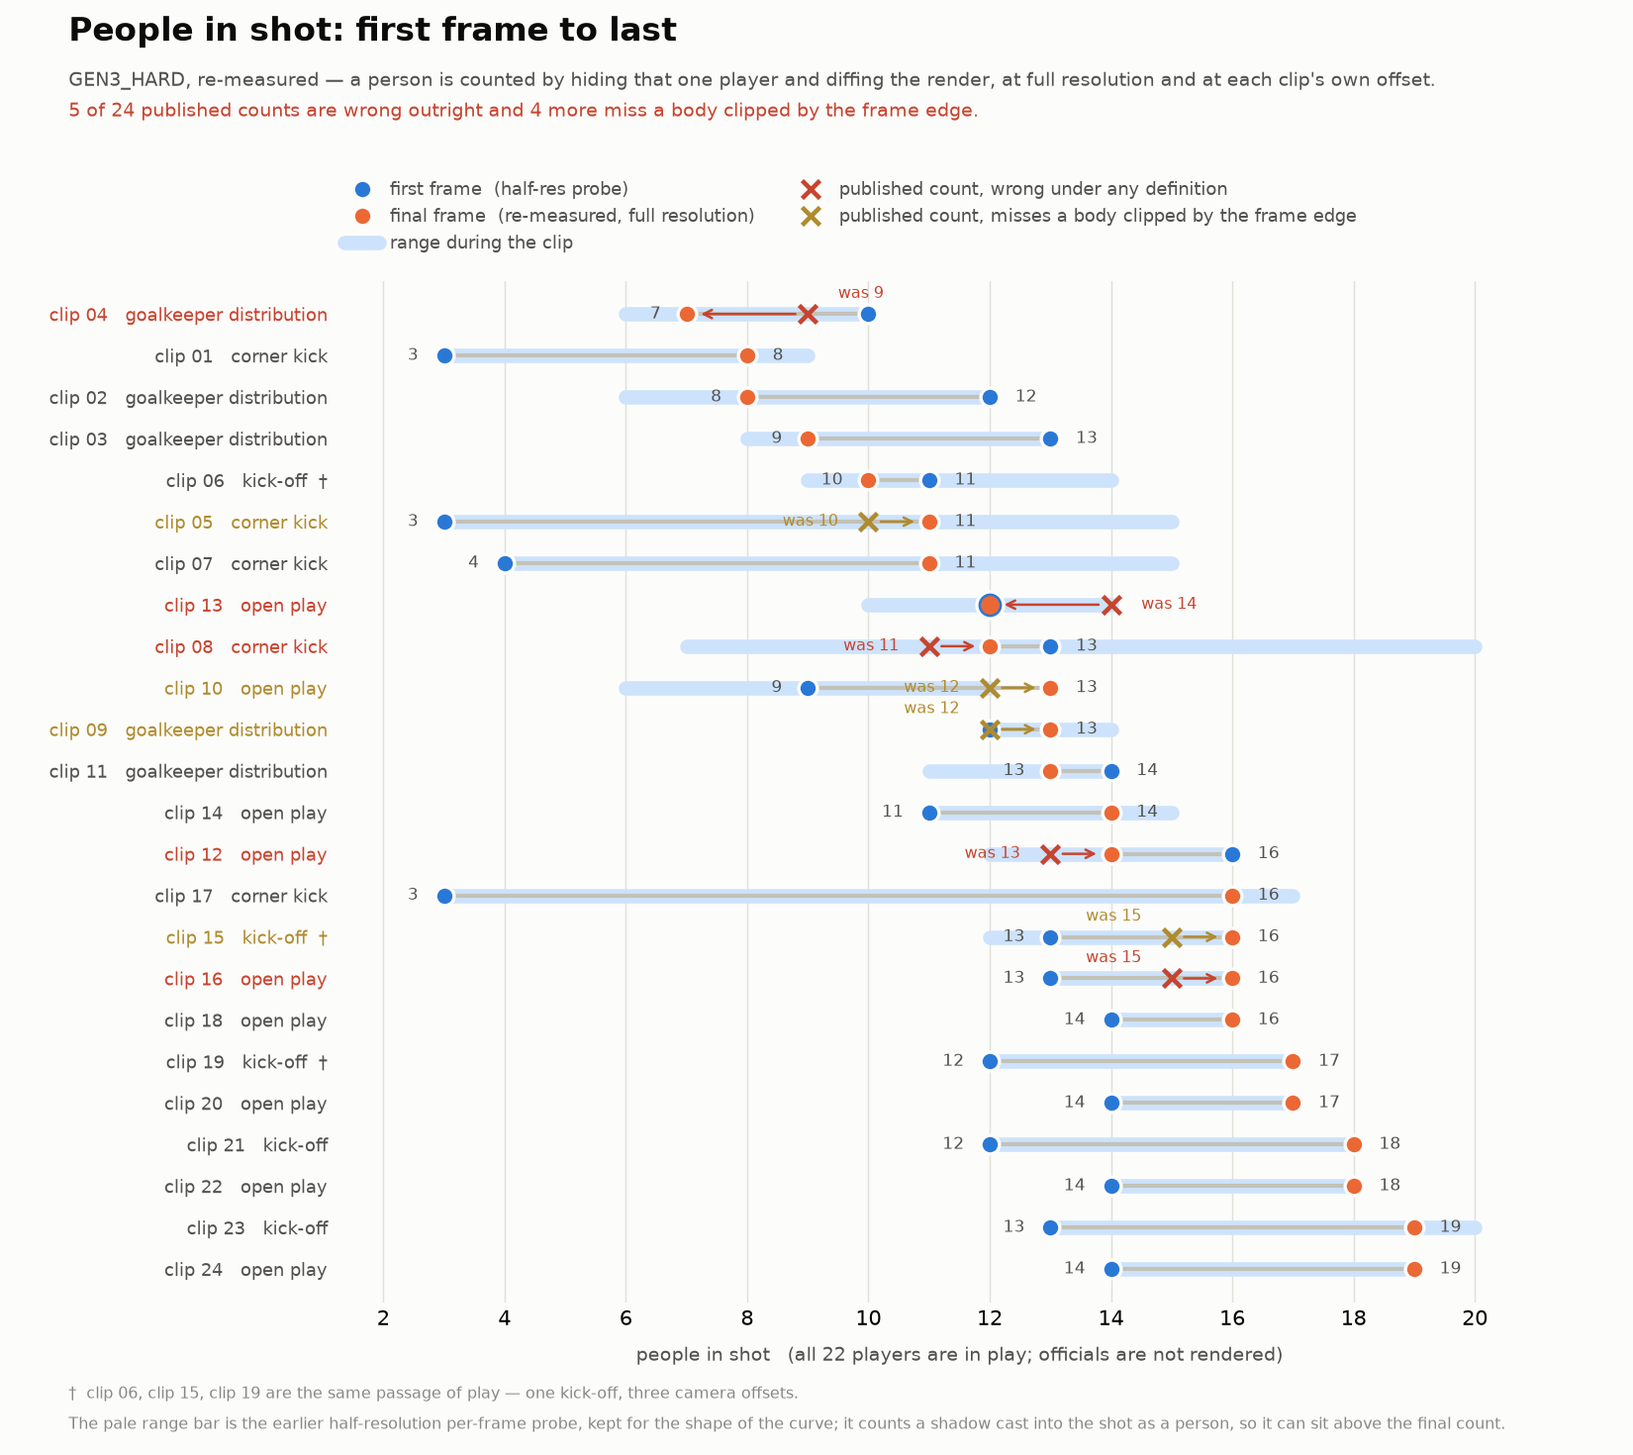
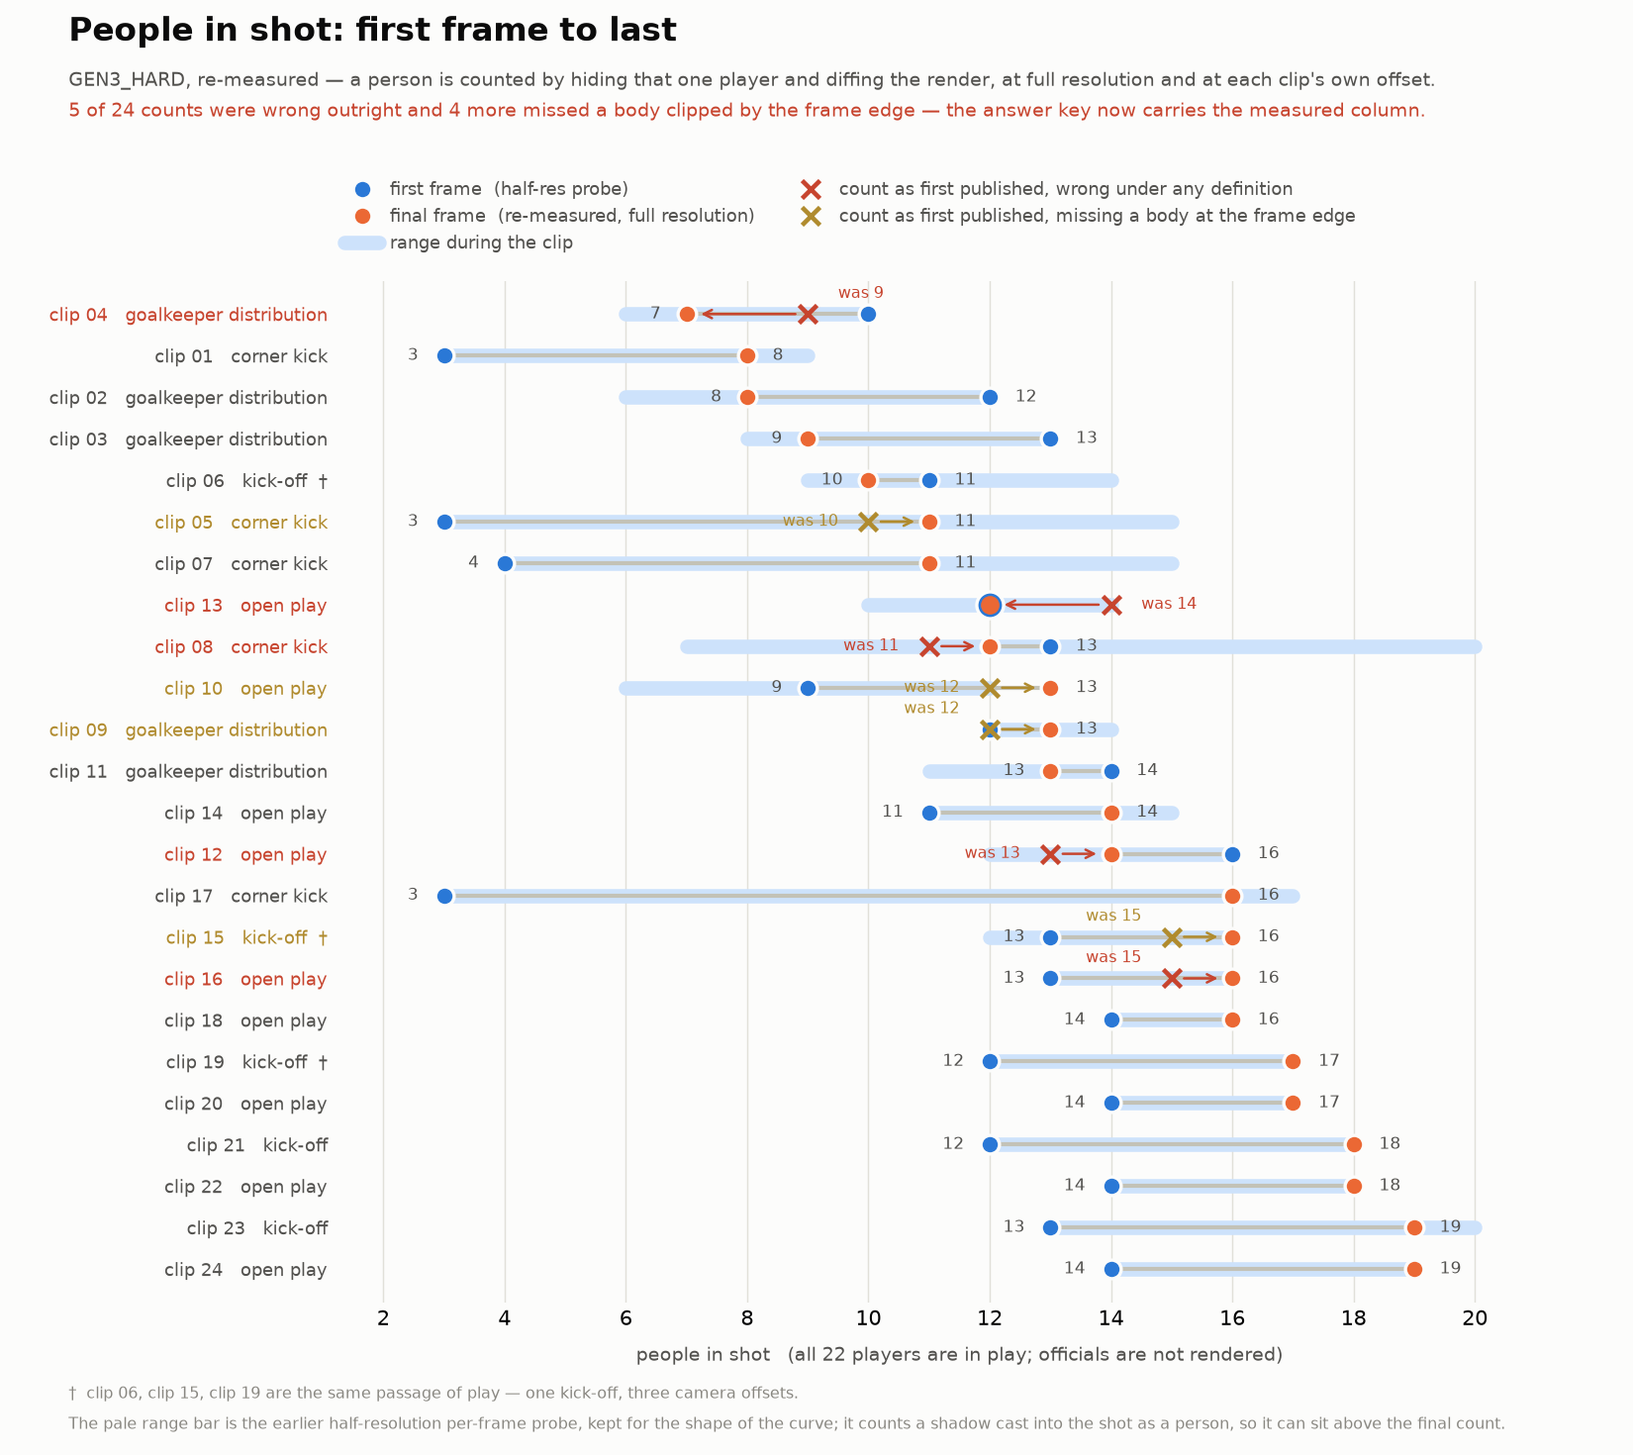
GEN3_HARD: correct the answer key, and stop the verifier passing on targets
Applies the re-measurement. ground_truth.csv and clip_classification.csv now
carry the measured final-frame count — a person is in shot if any part of their
body has pixels in the frame — and gain a same_play_as column naming the clips
that share a passage of play. Nine counts changed; the key as first published is
kept as ground_truth.superseded_2026-09-21.csv, which is also what the review
compares against so the record of the correction survives the fix.

gen3_report.py now takes the end count from the full-resolution final-frame
probe rather than the half-resolution trace, and refuses to fall back to it.

Two verifier checks were reading the selector's intentions instead of the
shipped batch, and passed while the batch was wrong:

  * the player count came from picks.json["count"], the target the selector
    aimed at, so it reported 8..19 twice even where the frame disagreed;
  * "one clip per match" compared match names, which cannot see that mid_bal,
    mid_even and mid_even2 are one scenario spec under three names.

Both now read the shipped key and the logged ball track. They fail, correctly:
level 15 is empty, 16 holds four clips, clip_04 sits at 7, three levels lost
their blue/red split, and clips 06, 15 and 19 are one kick-off at three camera
offsets. RESUME.md records what that costs and what still has to be re-picked.

Changed region(s): [[0.0927, 0.0612, 0.8655, 0.0918], [0.5255, 0.1224, 0.8345, 0.1531]]

diff --git a/GEN3_HARD/gen3_report.py b/GEN3_HARD/gen3_report.py
@@ -10,8 +10,13 @@ shipped ground truth, and runs no engine. Re-running it cannot change the batch.
 
 WHERE EACH NUMBER COMES FROM, because they are not equally hard-won
   ball cell / pixel   measured in `compose` from the shipped render pair
-  players in frame    measured by the 23-pass solo probe (`trace`) at the shipping
-                      camera offset — the only exact method; see gen3.py
+  players in frame    measured by the 23-pass solo probe at the shipping camera offset —
+                      the only exact method; see gen3.py. The START/MIN/MAX come from
+                      `trace`, which runs at half resolution; the END count, which is the
+                      batch's headline number, comes from `verify_final_frame.py` at full
+                      resolution and counts bodies only. So a row CAN show an end count
+                      above its own max: the coarse pass misses a body clipped by the
+                      frame edge. Do not "fix" that by reverting the end count.
   everything else     the sweep log, which is camera-independent: ball xyz, per-player
                       xy, possession, game mode, score, at 25 fps
 
@@ -110,6 +115,21 @@ def near_ball(row, i):
     return int((np.linalg.norm(pl - row["ball"][i][:2], axis=1) < NEAR).sum())
 
 
+FINAL = G.CACHE / "finalframe"
+FINAL_MIN_PIX = 20          # matches review_gen3_hard.py; a body, not a shadow
+
+
+def final_frame_count(r):
+    """People in shot on the last frame, from the full-resolution solo probe."""
+    f = FINAL / f"{r['clip']}.npz"
+    if not f.exists():
+        raise SystemExit(f"{f} is missing — run `python3 verify_final_frame.py` first; "
+                         "the end count must not fall back to the half-res trace")
+    rec = json.loads(str(np.load(f, allow_pickle=True)["rec"]))
+    return sum(1 for s in rec["slots"]
+               if s["pix"] >= FINAL_MIN_PIX and s.get("body_pix", 0) >= FINAL_MIN_PIX)
+
+
 def crowding(n):
     return "isolated" if n < 2 else ("contested" if n < 5 else "crowded")
 
@@ -166,7 +186,32 @@ def describe(r):
     return "; ".join(bits) + "."
 
 
+def mark_duplicates(rows):
+    """Tag clips that are the same passage of play as another clip.
+
+    Not by match name: `mid_bal`, `mid_even` and `mid_even2` are three names for one
+    scenario spec, so one seed replays bit-identically under each and three clips can
+    share a kick-off while looking like three different matches. Compare the logged ball
+    track, which is the thing that would have to differ for the play to be different.
+    """
+    for r in rows:
+        r["dup"] = []
+    for i, a in enumerate(rows):
+        for b in rows[i + 1:]:
+            if len(a["ball"]) != len(b["ball"]):
+                continue
+            za = np.load(SWEEP / f"{a['match']}.npz")["ball"]
+            zb = np.load(SWEEP / f"{b['match']}.npz")["ball"]
+            if len(za) != len(zb) or np.abs(za - zb).max() > 1e-6:
+                continue
+            if min(a["end"], b["end"]) > max(a["start"], b["start"]):
+                a["dup"].append(b["clip"])
+                b["dup"].append(a["clip"])
+    return rows
+
+
 def classify(rows):
+    mark_duplicates(rows)
     for r in rows:
         b, own = r["ball"], r["owned"]
         step = np.diff(b[:, :2], axis=0) * (MX, MY)
@@ -193,9 +238,14 @@ def classify(rows):
         r["restart_visible"] = bool(r["start"] <= r["anchor"] < r["end"])
         t = r["trace"]
         r["count_start"] = int(t[0]) if t is not None else None
-        r["count_end"] = int(t[-1]) if t is not None else int(r["count"])
         r["count_min"] = int(t.min()) if t is not None else None
         r["count_max"] = int(t.max()) if t is not None else None
+        # The END count is the batch's headline number, so it does NOT come from the
+        # half-resolution trace: at down=2 a 40-pixel floor is ~160 pixels at full size,
+        # which drops a player half out of frame and admits the shadow of one entirely
+        # out of it. verify_final_frame.py re-measures that one frame at full resolution
+        # and separates body pixels from shadow; see _review/CLIP_REVIEW.md.
+        r["count_end"] = final_frame_count(r)
         r["description"] = describe(r)
     return rows
 
@@ -238,6 +288,9 @@ FIELDS = [
     ("end_frame", lambda r: r["end"]),
     ("camera_offset_x", lambda r: r["offset_x"]),
     ("camera_offset_y", lambda r: r["offset_y"]),
+    # mid_bal, mid_even and mid_even2 are one scenario spec under three names, so a
+    # (shape, seed) pair is not a match identity and three clips share one kick-off.
+    ("same_play_as", lambda r: " ".join(r.get("dup", []))),
 ]
 
 

diff --git a/GEN3_HARD/verify_gen3.py b/GEN3_HARD/verify_gen3.py
@@ -4,6 +4,13 @@ Every assertion here is made against the RENDERED CLIPS or the frames they were 
 not against the plan that produced them. A pipeline that reports its own intentions back
 is worth nothing; the point is to catch the case where intent and output diverged.
 
+Two checks used to break that rule and passed while the batch was wrong. The player count
+was read from `picks.json["count"]` — the TARGET the selector was aiming at — so it
+reported 8..19 twice even after the re-measurement found nine of those counts wrong. And
+"one clip per match" compared match NAMES, which cannot see that `mid_bal`, `mid_even` and
+`mid_even2` are one scenario spec under three names, so three clips of one kick-off looked
+like three matches. Both now read the shipped ground truth and the logged play.
+
     python3 verify_gen3.py            # all checks + contact sheets
     python3 verify_gen3.py recheck N  # re-probe N clips end to end (23 replays each)
 
@@ -14,6 +21,7 @@ WHAT `recheck` IS FOR
   and the probe ever disagree (a stale scenario file, an env var not set on one path, a
   cache keyed wrongly), this is what finds it.
 """
+import csv
 import json
 import sys
 from pathlib import Path
@@ -66,9 +74,15 @@ def check(picks):
     print("\n== spec ==")
     want("24 situations", len(picks) == 24, f"got {len(picks)}")
 
-    counts = sorted(p["count"] for p in picks)
+    # From the SHIPPED KEY, which is what a consumer of the batch reads, never from the
+    # selector's target.
+    key = {r["clip"]: r for r in csv.DictReader(open(HERE / "clips/ground_truth.csv"))}
+    counts = sorted(int(key[p["clip"]]["players_in_frame_last"]) for p in picks)
     expect = sorted(c for c in G.END_COUNTS for _ in range(G.PER_COUNT))
-    want("counts are 8..19, two each", counts == expect, f"got {counts}")
+    per = {c: counts.count(c) for c in sorted(set(counts))}
+    short = [c for c in G.END_COUNTS if counts.count(c) != G.PER_COUNT]
+    want("counts are 8..19, two each", counts == expect,
+         f"got {per}" + (f"; off-spec levels {short}" if short else ""))
 
     kinds = {}
     for p in picks:
@@ -81,18 +95,34 @@ def check(picks):
     # red, which is exactly the imbalance this constraint exists to remove.
     by_count = {}
     for p in picks:
-        by_count.setdefault(p["count"], []).append(p.get("startown", -1))
-    uneven = {c: v for c, v in by_count.items() if sorted(v) != [0, 1]}
-    want("each count has one blue-start and one red-start clip", not uneven,
-         f"uneven levels {uneven}" if uneven else "")
+        lvl = int(key[p["clip"]]["players_in_frame_last"])
+        by_count.setdefault(lvl, []).append(p.get("startown", -1))
+    # Only a level holding exactly two clips can be split one and one; a level with one
+    # or three cannot, and flagging it as uneven would be an artefact of the count
+    # distribution rather than a fact about the starting teams.
+    uneven = {c: v for c, v in by_count.items() if len(v) == 2 and sorted(v) != [0, 1]}
+    odd = {c: len(v) for c, v in by_count.items() if len(v) != 2}
+    want("every two-clip level has one blue start and one red start", not uneven,
+         (f"uneven {uneven}" if uneven else "")
+         + (f"  (levels not holding two clips: {odd})" if odd else ""))
     tot = sorted(p.get("startown", -1) for p in picks)
     want("starting team is 12 blue / 12 red",
          tot.count(0) == 12 and tot.count(1) == 12,
          f"got blue {tot.count(0)} red {tot.count(1)}")
 
-    matches = {p["match"] for p in picks}
-    want("one clip per match", len(matches) == len(picks),
-         f"{len(matches)} distinct matches")
+    # By the PLAY, not the match name: identical ball tracks mean one match under two
+    # names, and overlapping windows on it mean two clips of the same passage of play.
+    shared = {}
+    for i, a in enumerate(picks):
+        ba = np.load(G.SWEEP / f"{a['match']}.npz")["ball"]
+        for b in picks[i + 1:]:
+            bb = np.load(G.SWEEP / f"{b['match']}.npz")["ball"]
+            if len(ba) != len(bb) or np.abs(ba - bb).max() > 1e-6:
+                continue
+            if min(a["end"], b["end"]) > max(a["start"], b["start"]):
+                shared.setdefault(a["clip"], []).append(b["clip"])
+    want("one clip per passage of play", not shared,
+         f"shared play {shared}" if shared else f"{len(picks)} distinct passages")
 
     want("nobody hidden", all(p.get("players_hidden", 0) == 0 for p in picks))
 

diff --git a/GEN3_HARD/review_gen3_hard.py b/GEN3_HARD/review_gen3_hard.py
@@ -56,9 +56,19 @@ SOFT = "#b08b2e"        # amber  — published number differs only by a body cli
                         #          the frame edge
 
 
+SUPERSEDED = CLIPS / "ground_truth.superseded_2026-09-21.csv"
+
+
 def load():
+    """Every clip, its re-measurement, and the count that was published BEFORE the fix.
+
+    The comparison reads the superseded key, not the live one. Once the live key is
+    corrected the two agree, and a review that compared against it would report a clean
+    bill of health and quietly lose the record of what was wrong.
+    """
     picks = json.loads(PICKS.read_text())
-    gt = {r["clip"]: r for r in csv.DictReader(open(CLIPS / "ground_truth.csv"))}
+    key = SUPERSEDED if SUPERSEDED.exists() else CLIPS / "ground_truth.csv"
+    gt = {r["clip"]: r for r in csv.DictReader(open(key))}
     rows = []
     for p in picks:
         f = FINAL / f"{p['clip']}.npz"
@@ -290,9 +300,9 @@ def chart(rows):
         plt.Line2D([], [], color="#cde2fb", lw=7, solid_capstyle="round",
                    label="range during the clip"),
         plt.Line2D([], [], marker="x", ls="", ms=9, mew=2.2, color=FLAG,
-                   label="published count, wrong under any definition"),
+                   label="count as first published, wrong under any definition"),
         plt.Line2D([], [], marker="x", ls="", ms=9, mew=2.2, color=SOFT,
-                   label="published count, misses a body clipped by the frame edge"),
+                   label="count as first published, missing a body at the frame edge"),
     ]
     ax.legend(handles=handles, ncol=2, loc="lower left", frameon=False, fontsize=8.5,
               bbox_to_anchor=(-0.005, 1.012), handletextpad=0.6, columnspacing=2.2,
@@ -306,9 +316,12 @@ def chart(rows):
              "GEN3_HARD, re-measured — a person is counted by hiding that one player and "
              "diffing the render, at full resolution and at each clip's own offset.",
              fontsize=9, color=INK2)
+    fixed = SUPERSEDED.exists()
     fig.text(0.042, 0.920,
-             f"{n_wrong} of 24 published counts are wrong outright and {n_soft} more "
-             "miss a body clipped by the frame edge.",
+             f"{n_wrong} of 24 counts were wrong outright and {n_soft} more missed a "
+             "body clipped by the frame edge"
+             + (" — the answer key now carries the measured column."
+                if fixed else "."),
              fontsize=9, color=FLAG if n_wrong else INK2)
     dup_names = sorted({c for r in rows for c, _ in r["dup"]}
                        | {r["clip"] for r in rows if r["dup"]})
@@ -593,12 +606,17 @@ def markdown(rows, wrong):
       "restart clips, the player taking it is in shot as he takes it. clip_08 is the "
       "exception — the corner taker is outside the frame.")
     A("")
-    A("## Not yet changed\n")
-    A("`clips/ground_truth.csv` and `clips/clip_classification.csv` still carry the old "
-      "counts. Which number belongs in an answer key is a judgement — every body with "
-      "pixels in the frame, or only the ones not clipped by the edge — and that choice "
-      "has to be made before the key is rewritten. Both columns are in "
-      "`clip_review.csv`. The clips themselves are untouched.")
+    A("## What was changed\n")
+    A("`clips/ground_truth.csv` and `clips/clip_classification.csv` now carry the "
+      "measured count, under the rule at the top of this file: a person is in shot if "
+      "any part of their body has pixels in the frame. The count as first published is "
+      "kept in `clips/ground_truth.superseded_2026-09-21.csv`, and both columns are in "
+      "`clip_review.csv`, so the change is reversible and auditable. Every "
+      "`players_in_frame_last` is now reproducible with `verify_final_frame.py`.")
+    A("")
+    A("Both files also gained a `same_play_as` column naming the clips that share a "
+      "passage of play, so the three copies of one kick-off cannot be mistaken for "
+      "three independent samples. The clips themselves are untouched.")
     A("")
     A("Files: `clip_review.csv` (the table), `annotated/clip_XX.png` (the final frame "
       "with a box round every person counted), `player_counts.png` (the corrected "

diff --git a/GEN3_HARD/RESUME.md b/GEN3_HARD/RESUME.md
@@ -21,6 +21,49 @@ midfield open matches — `mid_r` and `mid_push`, the only shapes that ever reac
 were added to the plan and probed, which restored it to 4 matches at 19 and a feasible
 assignment. Cost about 40 minutes of probe across 3 shards.
 
+## RE-MEASURED 2026-09-22 — the player counts were wrong, and the levels do not hold
+
+The headline claim ("end-frame player count exactly 8..19, two clips each") did not
+survive a re-measurement. `verify_final_frame.py` re-ran the solo probe on the final frame
+of all 24 clips at FULL resolution, keeping a pixel mask per player, and found **nine of
+the 24 published counts wrong** — four too low, and two (clip_04, clip_13) counting the
+shadows of players who are outside the frame.
+
+The cause is the probe's resolution, not its method. `probe` and `trace` render at
+`down=2` and require 40 changed pixels, which is about 160 at full size: more than a
+player half out of frame leaves behind, and less than the shadow of one entirely out of
+it. Full resolution with body pixels separated from shadow is exact; see
+`_review/CLIP_REVIEW.md` and the per-clip evidence in `_review/annotated/`.
+
+What this costs the batch:
+
+* the count distribution is now `7×1, 8×2, 9×1, 10×1, 11×2, 12×2, 13×3, 14×2, 16×4,
+  17×2, 18×2, 19×2` — **level 15 is empty** and clip_04 sits at 7, outside the design
+  range. `verify_gen3.py` now FAILS this check instead of passing it on the selector's
+  target.
+* three levels no longer hold one blue-start and one red-start clip, because the clips
+  moved level.
+* **clips 06, 15 and 19 are the same kick-off.** `mid_bal`, `mid_even` and `mid_even2`
+  are three names for ONE scenario spec (ball (0,0), offsides on, difficulty 0.95, no
+  push), so one seed replays bit-identically under each and the one-clip-per-match rule,
+  which compared match names, never saw it. 06 and 15 are the same 125 frames; 19 is the
+  same match five frames earlier. All three are kept, tagged `same_play_as` in
+  `ground_truth.csv` and `clip_classification.csv`. **Fix the shape table before building
+  another batch** — three identical specs waste a third of the mid-pitch search and defeat
+  the diversity rule.
+
+`ground_truth.csv` now carries the measured count under the stated rule (a person is in
+shot if any part of their BODY has pixels in the frame); the count as first published is
+kept in `ground_truth.superseded_2026-09-21.csv`. Re-picking windows to restore 8..19
+twice was NOT done — it needs a fresh selection pass over the probe cache at the corrected
+counts.
+
+What the re-measurement did NOT find: the ball ground truth is exact (all 24 final ball
+pixels reproduce from the shipped renders and agree within 2 px with the occlusion-free
+plate), all 24 situation labels are right, no window contains a goal, a respot or an
+awarded set piece, and 14 of the 15 restarts are taken by a player who is in shot
+(clip_08's corner taker is outside the frame).
+
 ## What is identical to GEN3
 
 | | |

diff --git a/GEN3_HARD/_review/CLIP_REVIEW.md b/GEN3_HARD/_review/CLIP_REVIEW.md
@@ -87,8 +87,10 @@ Re-measured from the shipped renders, not from the pipeline's targets. Every num
 * **Continuity.** No goal, no teleport, no respot inside any of the 24 windows.
 * **Restarts are shown.** Every restart is inside its clip and, in 14 of the 15 restart clips, the player taking it is in shot as he takes it. clip_08 is the exception — the corner taker is outside the frame.
 
-## Not yet changed
+## What was changed
 
-`clips/ground_truth.csv` and `clips/clip_classification.csv` still carry the old counts. Which number belongs in an answer key is a judgement — every body with pixels in the frame, or only the ones not clipped by the edge — and that choice has to be made before the key is rewritten. Both columns are in `clip_review.csv`. The clips themselves are untouched.
+`clips/ground_truth.csv` and `clips/clip_classification.csv` now carry the measured count, under the rule at the top of this file: a person is in shot if any part of their body has pixels in the frame. The count as first published is kept in `clips/ground_truth.superseded_2026-09-21.csv`, and both columns are in `clip_review.csv`, so the change is reversible and auditable. Every `players_in_frame_last` is now reproducible with `verify_final_frame.py`.
+
+Both files also gained a `same_play_as` column naming the clips that share a passage of play, so the three copies of one kick-off cannot be mistaken for three independent samples. The clips themselves are untouched.
 
 Files: `clip_review.csv` (the table), `annotated/clip_XX.png` (the final frame with a box round every person counted), `player_counts.png` (the corrected chart), `count_distribution.png` (the levels the batch really covers).
